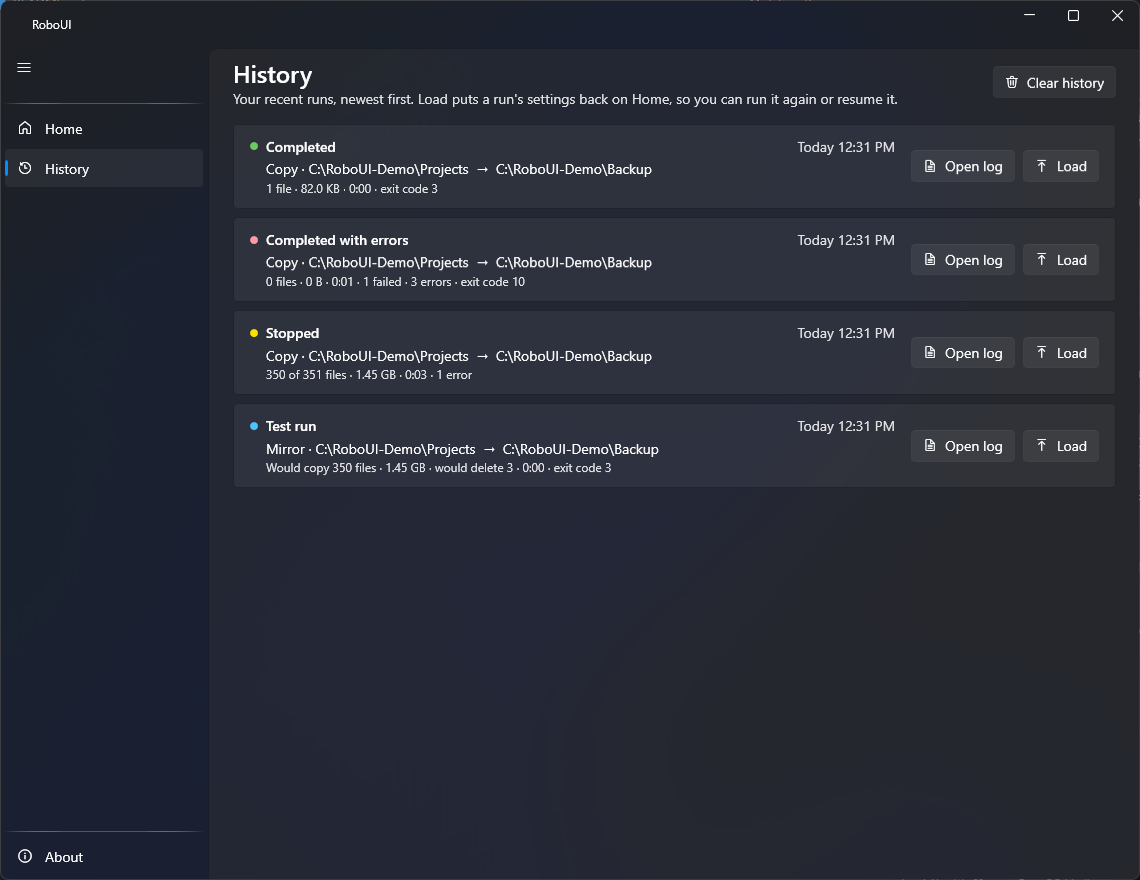
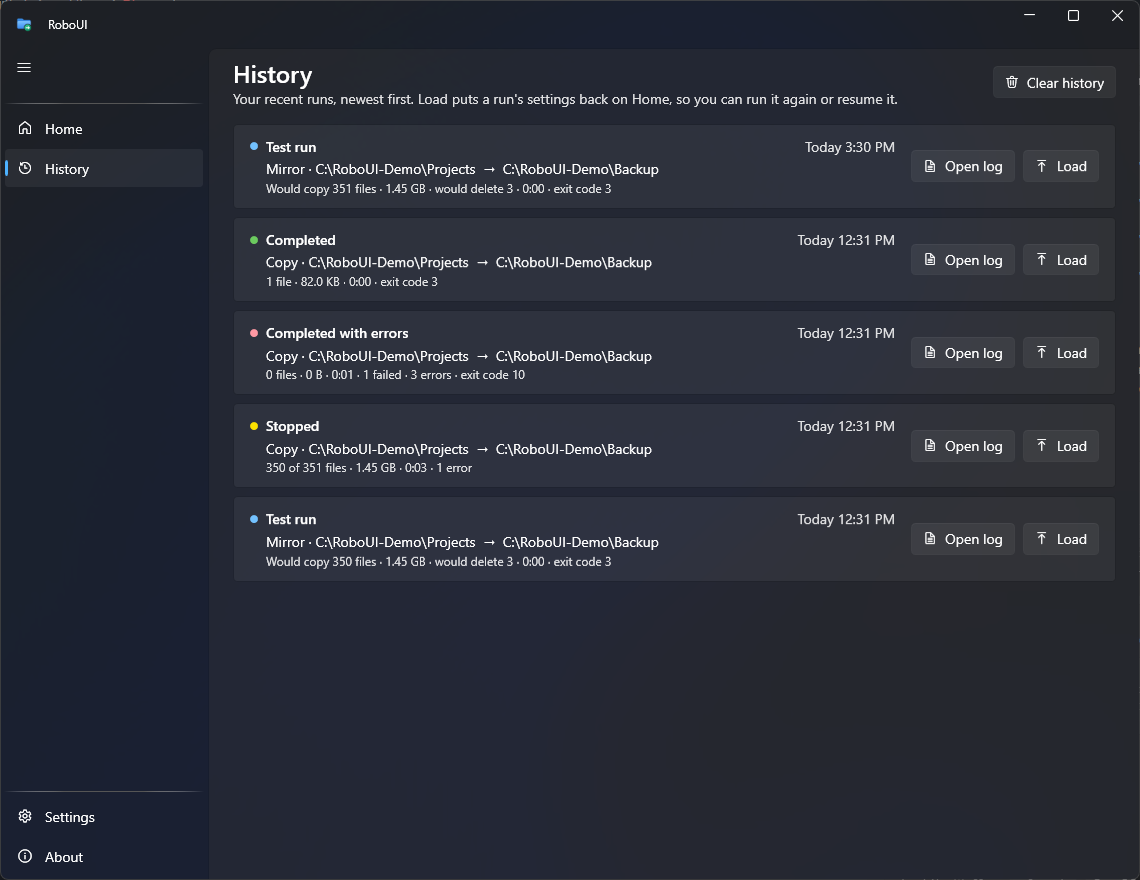
update ss and added new one for settings screen

diff --git a/README.md b/README.md
@@ -37,6 +37,10 @@ RoboUI doesn't copy anything itself. `robocopy.exe`, which ships with Windows, d
 |---|---|
 | ![History page](docs/screenshots/history.png) | ![Test run result](docs/screenshots/test-run.png) |
 
+| Settings |
+|---|
+| ![Settings page](docs/screenshots/settings.png) |
+
 ## Requirements
 
 - Windows 10 or Windows 11 (x64)
